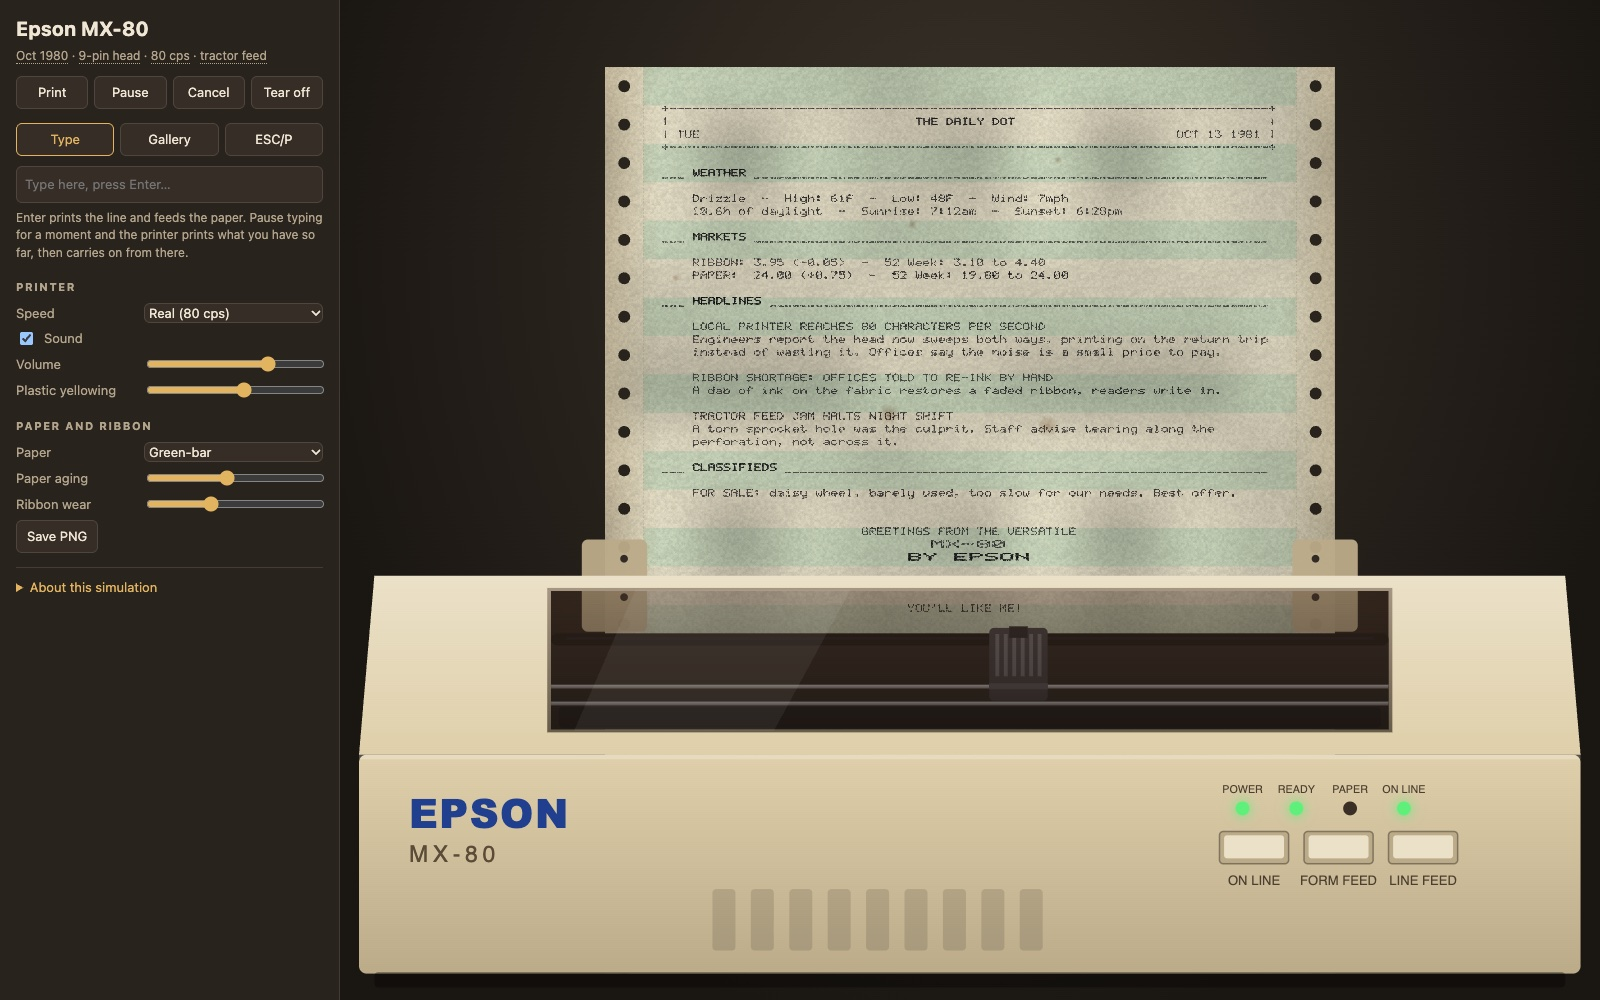
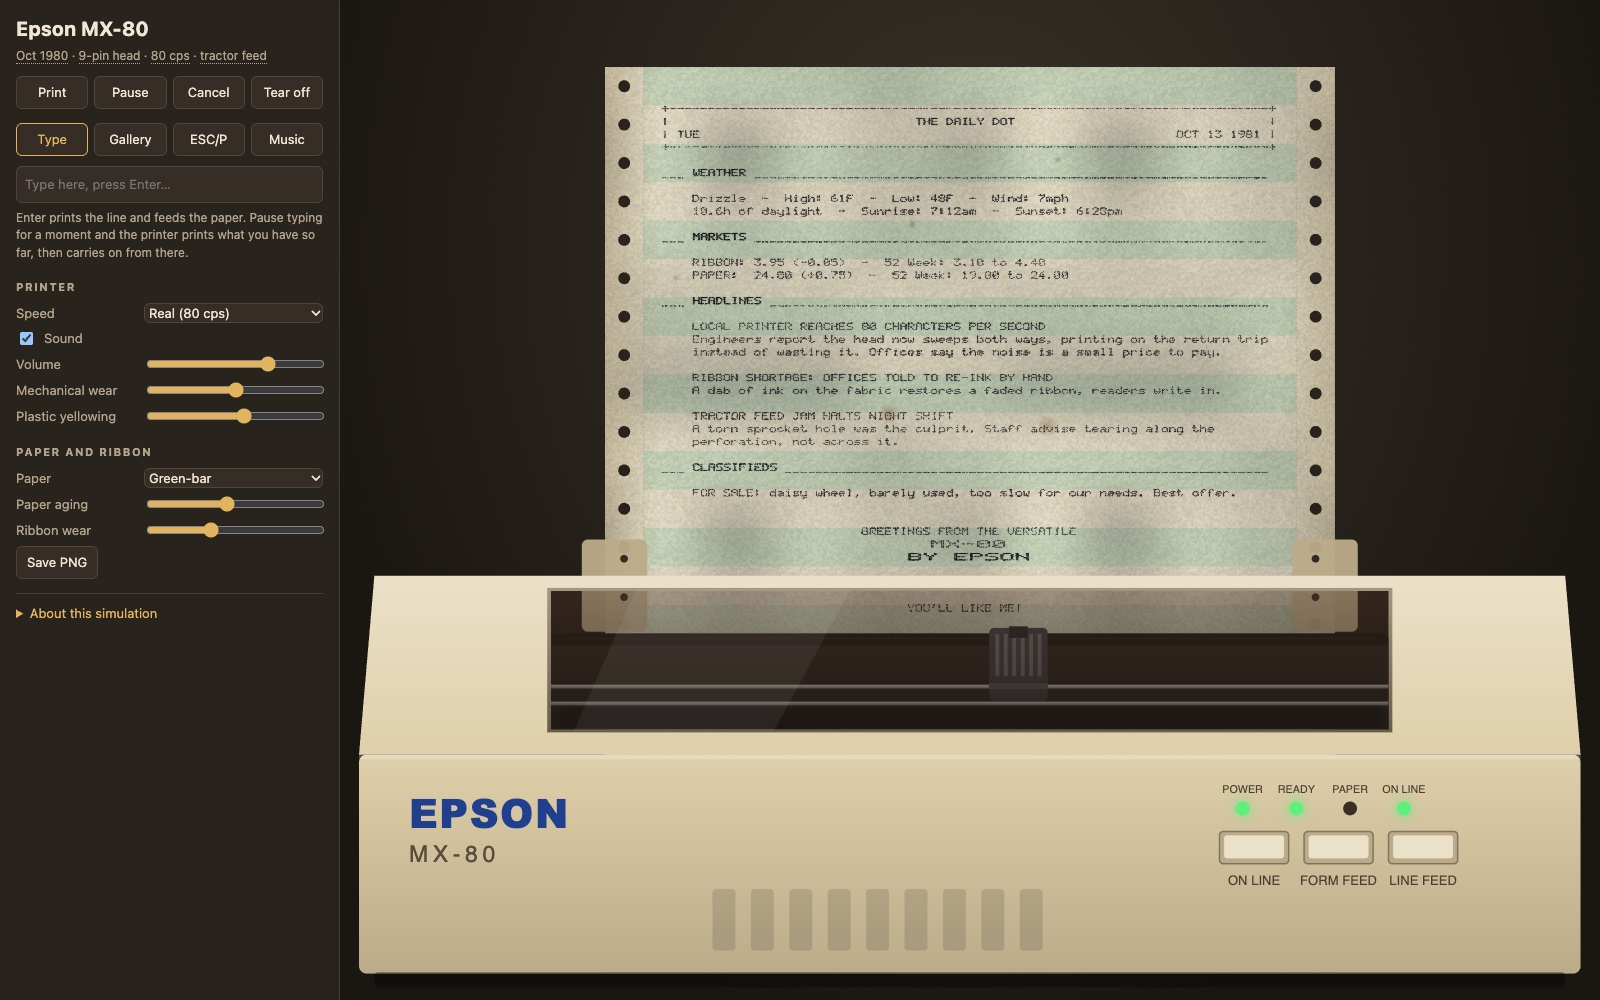
epson-mx80: imperfect, leaking ink
Dots no longer land on a clean grid: each column lands early or late
(head timing), each pin sits a hair off its height, and every dot
scatters a little. Pin force varies per strike, drifts along the line and
has a habit per pin: hard hits are big and dark, light ones small and
pale, the lightest only a partial ring. The ribbon's weave shows in the
dots, dots stretch in the head's direction of travel, and ink wicks into
the paper as a bluish halo with the odd hairline tendril (more on aged or
recycled paper and with a fresh ribbon). Screenshot retaken.

diff --git a/epson-mx80/index.html b/epson-mx80/index.html
@@ -730,7 +730,10 @@ const MX80Tests = {
 </script>
 <script>
 const PAPER_W = 9.5, MARGIN_X = .75, PAGE_IN = 11, PIN_IN = 1 / 72, UNIT_IN = 1 / 120, TOP_GAP = .5, TAU = Math.PI * 2;
-const PIN_WEAR = [1, .97, 1, .86, 1, 1, .94, 1, .9];       // this printer's pin 4 has always been a little weak
+// This printer's pins: each sits a hair off its nominal height (inches) and strikes with its own habitual
+// force; pin 4 has always been a little weak.
+const PIN_DY = [.0006, -.0004, .0009, -.0011, .0003, .0012, -.0007, .0004, -.0009];
+const PIN_FORCE = [.04, -.02, .07, -.2, 0, .05, -.07, .02, -.11];
 const settings = { paper: "green-bar", aging: .45, wear: .35, plastic: .55, mech: .5, speed: 1, sound: false, soundTouched: false, volume: .7 };
 const printed = { rows: [], strikes: [], printY: TOP_GAP, ribbonPos: 0, lastX: 0, feedAnim: null };
 const view = { k: 60, paperLeft: 0, platenY: 400, follow: true, atPlaten: TOP_GAP };
@@ -768,20 +771,56 @@ function noiseTile(size, cells, seed, speckle) {
 const grainTile = noiseTile(256, 48, 7, true), blotchTile = noiseTile(128, 5, 21, false);
 
 // Ink stamps: soft discs with ragged, lobed rims and a grainy fill, like a fabric ribbon hit by a wire.
-const inkSprites = Array.from({ length: 16 }, (_, v) => {
-  const n = 48, c = document.createElement("canvas"); c.width = c.height = n;
-  const g = c.getContext("2d"), img = g.createImageData(n, n), r = MX80.rng(900 + v);
+// Ink stamps. A wire hits a fabric ribbon, so a dot is a ragged disc with the ribbon's weave pressed into
+// it. Light hits leave only a partial ring (the rim caught the ribbon, the centre barely did). Around every
+// dot a faint halo of ink wicks into the paper fibres, and now and then a hairline tendril runs along one.
+function spriteSet(count, seed, n, fill) {
+  return Array.from({ length: count }, (_, v) => {
+    const c = document.createElement("canvas"); c.width = c.height = n;
+    const g = c.getContext("2d"), img = g.createImageData(n, n), r = MX80.rng(seed + v);
+    fill(img.data, n, r);
+    g.putImageData(img, 0, 0);
+    return c;
+  });
+}
+function raggedDisc(data, n, r, ring) {
   const lobes = Array.from({ length: 7 }, () => [r() * TAU, .05 + r() * .12, 1 + Math.floor(r() * 4)]);
+  const weaveA = r() * Math.PI, wk = 9 + r() * 4, ca = Math.cos(weaveA), sa = Math.sin(weaveA);
   for (let y = 0; y < n; y++) for (let x = 0; x < n; x++) {
     const dx = (x + .5) / n * 2 - 1, dy = (y + .5) / n * 2 - 1, d = Math.hypot(dx, dy), a = Math.atan2(dy, dx);
     let edge = .8;
     for (const [ph, amp, f] of lobes) edge += amp * Math.sin(a * f + ph) * .5;
-    const t = clamp((edge - d) / .24, 0, 1), i = (y * n + x) * 4;
-    img.data[i] = 22; img.data[i + 1] = 20; img.data[i + 2] = 28;
-    img.data[i + 3] = t * t * (3 - 2 * t) * (.8 + .2 * r()) * 255;
+    const t = clamp((edge - d) / .24, 0, 1), u = dx * ca + dy * sa, w = -dx * sa + dy * ca;
+    const weave = .8 + .2 * Math.abs(Math.sin(u * wk) * Math.sin(w * wk));          // the ribbon's fabric
+    const body = ring ? (.35 + .65 * clamp(1 - Math.abs(d - edge * .8) / .3, 0, 1)) * (.6 + .4 * Math.sin(a * 2 + r() * .4)) : 1;
+    const i = (y * n + x) * 4;
+    data[i] = 22; data[i + 1] = 20; data[i + 2] = 28;
+    data[i + 3] = t * t * (3 - 2 * t) * weave * body * (.78 + .22 * r()) * 255;
   }
-  g.putImageData(img, 0, 0);
-  return c;
+}
+const inkSprites = spriteSet(16, 900, 48, (data, n, r) => raggedDisc(data, n, r, false));
+const ringSprites = spriteSet(8, 950, 48, (data, n, r) => raggedDisc(data, n, r, true));
+const haloSprites = spriteSet(8, 980, 48, (data, n, r) => {
+  // feathered, streaky bleed: stronger along the fibre direction
+  const fa = r() * Math.PI, ca = Math.cos(fa), sa = Math.sin(fa), streaks = Array.from({ length: 6 }, () => [r() * TAU, 2 + r() * 6]);
+  for (let y = 0; y < n; y++) for (let x = 0; x < n; x++) {
+    const dx = (x + .5) / n * 2 - 1, dy = (y + .5) / n * 2 - 1, u = dx * ca + dy * sa, w = -dx * sa + dy * ca;
+    const d = Math.hypot(u * .8, w * 1.25), a = Math.atan2(dy, dx);
+    let fib = 1; for (const [ph, f] of streaks) fib += .12 * Math.sin(a * f + ph);
+    const t = clamp(1 - d / fib, 0, 1), i = (y * n + x) * 4;
+    data[i] = 52; data[i + 1] = 46; data[i + 2] = 78;                                  // the dye spreads bluish
+    data[i + 3] = Math.pow(t, 1.6) * (.6 + .4 * r()) * 255;
+  }
+});
+const tendrilSprites = spriteSet(4, 990, 64, (data, n, r) => {
+  // a hairline wicked along one fibre: thin, wavy, fading from the dot outward
+  const wav = 1 + r() * 2, ph = r() * TAU;
+  for (let y = 0; y < n; y++) for (let x = 0; x < n; x++) {
+    const u = x / n, cy = .5 + .06 * Math.sin(u * wav * TAU + ph), w = Math.abs(y / n - cy);
+    const t = clamp(1 - w / .035, 0, 1) * (1 - u) * (u > .05 ? 1 : u / .05), i = (y * n + x) * 4;
+    data[i] = 40; data[i + 1] = 36; data[i + 2] = 62;
+    data[i + 3] = t * (.5 + .5 * r()) * 255;
+  }
 });
 
 // Paint the paper itself for the region whose top-left is (x0, y0) inches, at S pixels per inch.
@@ -831,17 +870,49 @@ function paintPaper(ctx, S, x0, y0, w, h) {
 
 // Stamp the dots of `list` (strikes) into ctx, for a region whose top-left is (x0, y0) inches.
 // A fresh ribbon makes big soft blots that merge; a worn one small, faint, separate dots.
+// Stamp the dots of `list` (strikes) into ctx, for a region whose top-left is (x0, y0) inches.
+// Every value below comes from hash(strike id, pin, …), so page caches, the loupe and the PNG agree.
+//  - placement: each column lands a little early or late (head timing), each pin sits a hair off its
+//    height, plus a little scatter per dot;
+//  - pressure: per strike and pin, drifting along the line, with each pin's habit; hard hits are big and
+//    dark, light ones small and pale, the lightest only a partial ring;
+//  - ribbon drag stretches dots along the head's direction of travel;
+//  - leaking: a faint halo wicks into the paper (more on aged or recycled paper and with a fresh ribbon),
+//    and now and then a hairline tendril.
+// A fresh ribbon makes big soft blots that merge; a worn one small, faint, separate dots.
 function drawDots(ctx, S, x0, y0, list) {
   const wear = settings.wear, dia = PIN_IN * (1.45 - .7 * wear), base = 1 - .45 * wear, minD = 2.2 * (1 - .3 * wear);
+  const bleed = (.35 + (settings.paper === "recycled" ? .3 : 0) + settings.aging * .35) * (1 - .55 * wear);
   ctx.save();
   ctx.globalCompositeOperation = "multiply";
-  for (const st of list) for (let r = 0; r < 9; r++) {
-    if (!(st.pins & (1 << r))) continue;
-    const h1 = hash(st.id, r, 7), h2 = hash(st.id, r, 13), h3 = hash(st.id, r, 29);
-    const d = Math.max(dia * (.82 + .32 * h1) * S, minD * (.85 + .3 * h1));
-    const x = (MARGIN_X + st.x * UNIT_IN - x0 + (h2 - .5) * .0016) * S, y = (st.y + r * PIN_IN + st.pass / 216 - y0 + (h3 - .5) * .0016) * S;
-    ctx.globalAlpha = clamp(.18 + base * st.ink * PIN_WEAR[r] * (.78 + .3 * h2) * .9, 0, 1);
-    ctx.drawImage(inkSprites[(st.id * 9 + r) & 15], x - d / 2, y - d / 2, d, d);
+  for (const st of list) {
+    const colDx = (hash(st.id, 0, 41) - .5) * .004 + Math.sin(st.x * .013 + st.y * 7.1) * .0012;   // head timing
+    const drift = Math.sin(st.x * .0045 + st.y * 3.3) * .12;                                       // force drifts along the line
+    const drag = st.dir || 0;
+    for (let r = 0; r < 9; r++) {
+      if (!(st.pins & (1 << r))) continue;
+      const h1 = hash(st.id, r, 7), h2 = hash(st.id, r, 13), h3 = hash(st.id, r, 29), h4 = hash(st.id, r, 53), h5 = hash(st.id, r, 71);
+      const force = clamp(.72 + (h1 + h2 - 1) * .42 + PIN_FORCE[r] + drift, .12, 1.35);
+      const d = Math.max(dia * (.62 + .42 * force) * S, minD * (.75 + .3 * force));
+      const cx = MARGIN_X + st.x * UNIT_IN + colDx + (h3 - .5) * .0022 + drag * d / S * .07;
+      const cy = st.y + r * PIN_IN + st.pass / 216 + PIN_DY[r] + (h4 - .5) * .0022;
+      const x = (cx - x0) * S, y = (cy - y0) * S, wDot = d * (1 + .16 * Math.abs(drag)), ink = st.ink * base;
+      if (bleed > .02) {                                   // ink wicking into the fibres, under the dot
+        const hd = d * (1.8 + 1.4 * bleed * force);
+        ctx.globalAlpha = clamp(.62 * bleed * ink * force, 0, .6);
+        ctx.drawImage(haloSprites[(st.id + r * 3) & 7], x - hd / 2, y - hd / 2, hd, hd);
+        if (h5 < .05 * bleed * force) {                    // a hairline tendril along one fibre
+          const len = d * (1.2 + 2 * h2), ang = h3 * TAU;
+          ctx.save(); ctx.translate(x, y); ctx.rotate(ang);
+          ctx.globalAlpha = clamp(.35 * ink, 0, .6);
+          ctx.drawImage(tendrilSprites[(st.id + r) & 3], 0, -len * .08, len, len * .16);
+          ctx.restore();
+        }
+      }
+      const light = force < .3;
+      ctx.globalAlpha = clamp(.14 + ink * (.45 + .55 * force) * .95, 0, 1);
+      ctx.drawImage(light ? ringSprites[(st.id * 9 + r) & 7] : inkSprites[(st.id * 9 + r) & 15], x - wDot / 2, y - d / 2, wDot, d);
+    }
   }
   ctx.restore();
 }
@@ -855,11 +926,12 @@ function strikesInRange(y0, y1) {
 }
 function addPrintedStrike(x, pins, pass, lineY) {
   // Ribbon model: the fabric is inked unevenly, so its darkness drifts as the head travels.
+  const dir = Math.sign(x - printed.lastX);          // the head's direction of travel, for ribbon drag
   printed.ribbonPos += Math.abs(x - printed.lastX); printed.lastX = x;
   const rp = printed.ribbonPos, band = .8 + .2 * (.5 + .5 * Math.sin(rp * .0021)) * (.55 + .45 * Math.sin(rp * .00077 + 1.3));
   let row = printed.rows[printed.rows.length - 1];
   if (!row || row.y !== lineY) printed.rows.push(row = { y: lineY, strikes: [] });
-  const st = { id: printed.strikes.length, x, y: lineY, pins, pass, ink: band };
+  const st = { id: printed.strikes.length, x, y: lineY, pins, pass, ink: band, dir };
   row.strikes.push(st); printed.strikes.push(st);
 }
 
